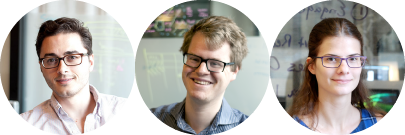
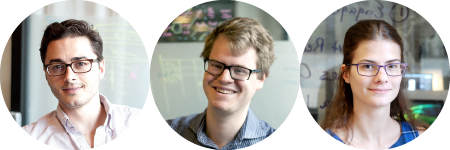
added larger helper images

diff --git a/cmn/landing.css b/cmn/landing.css
@@ -159,8 +159,8 @@ h3 {
 }
 
 .photo-icon {
-    width: 135px;
-    height: 135px;
+    width: 150px;
+    height: 150px;
     display: inline-block;
     background-image:url('../img/landing/helpers.png');
 }
@@ -170,11 +170,11 @@ h3 {
 }
 
 .photo-icon.robbie-icon {
-    background-position: -135px 0;
+    background-position: -150px 0;
 }
 
 .photo-icon.liz-icon {
-    background-position: -270px 0;
+    background-position: -300px 0;
 }
 
 
